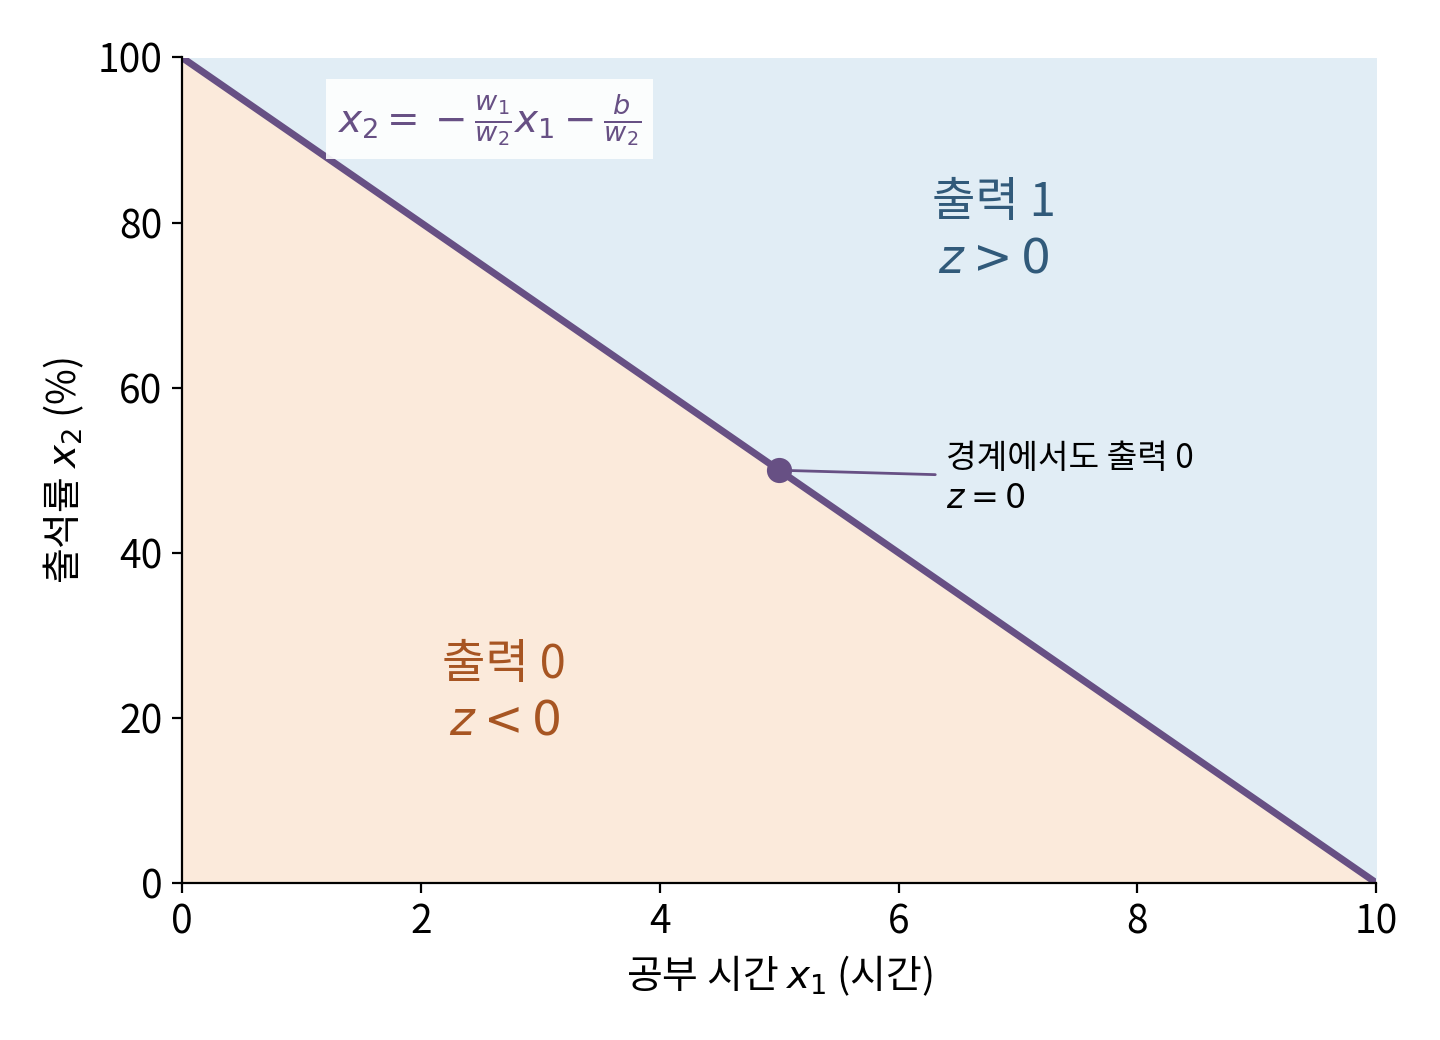
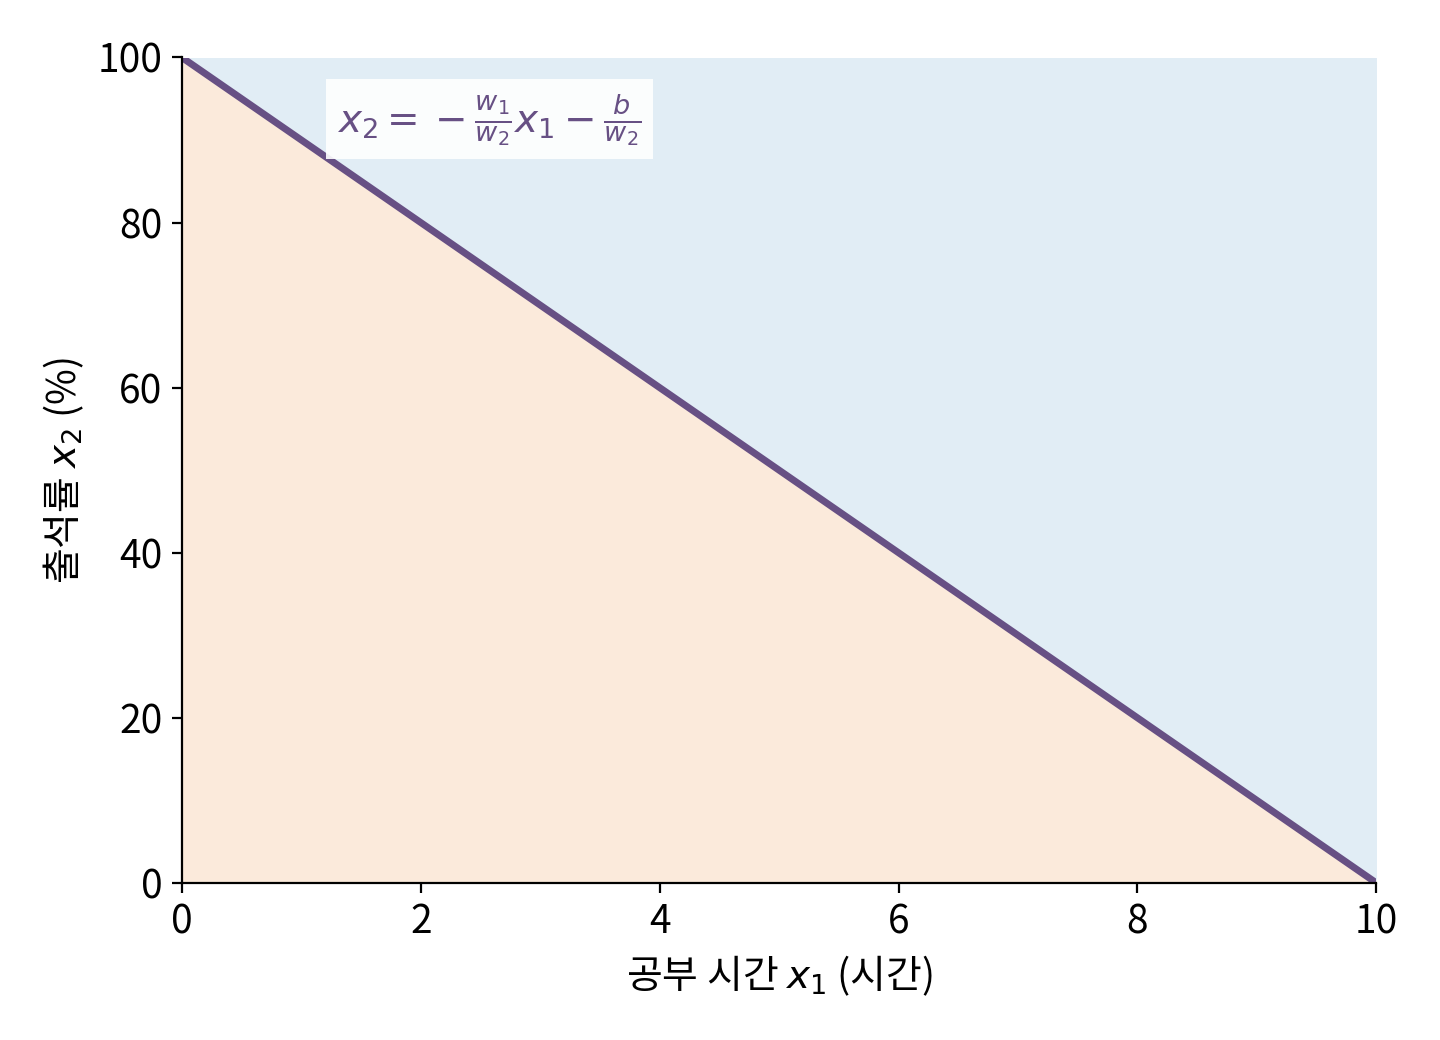
docs: simplify decision boundary graph annotations

diff --git a/scripts/figures/ch05_decision_regions.py b/scripts/figures/ch05_decision_regions.py
@@ -16,11 +16,6 @@ def main():
     ax.fill_between(x, boundary, 100, color='#e1edf5')
     ax.fill_between(x, 0, boundary, color='#fbeadb')
     ax.plot(x, boundary, color='#675084', lw=2.5)
-    ax.text(6.8, 79, '출력 1\n$z > 0$', ha='center', va='center', color='#315a7a', fontsize=17)
-    ax.text(2.7, 23, '출력 0\n$z < 0$', ha='center', va='center', color='#a75522', fontsize=17)
-    ax.scatter([5], [50], s=65, color='#675084', zorder=3)
-    ax.annotate('경계에서도 출력 0\n$z = 0$', xy=(5, 50), xytext=(6.4, 49),
-                fontsize=12, va='center', arrowprops={'arrowstyle': '-', 'color': '#675084'})
     ax.text(1.3, 91, r'$x_2 = -\frac{w_1}{w_2}x_1 - \frac{b}{w_2}$', fontsize=14, color='#675084',
             bbox={'facecolor': 'white', 'edgecolor': 'none', 'alpha': .9})
     ax.set(xlim=(0, 10), ylim=(0, 100), xlabel='공부 시간 $x_1$ (시간)', ylabel='출석률 $x_2$ (%)')
